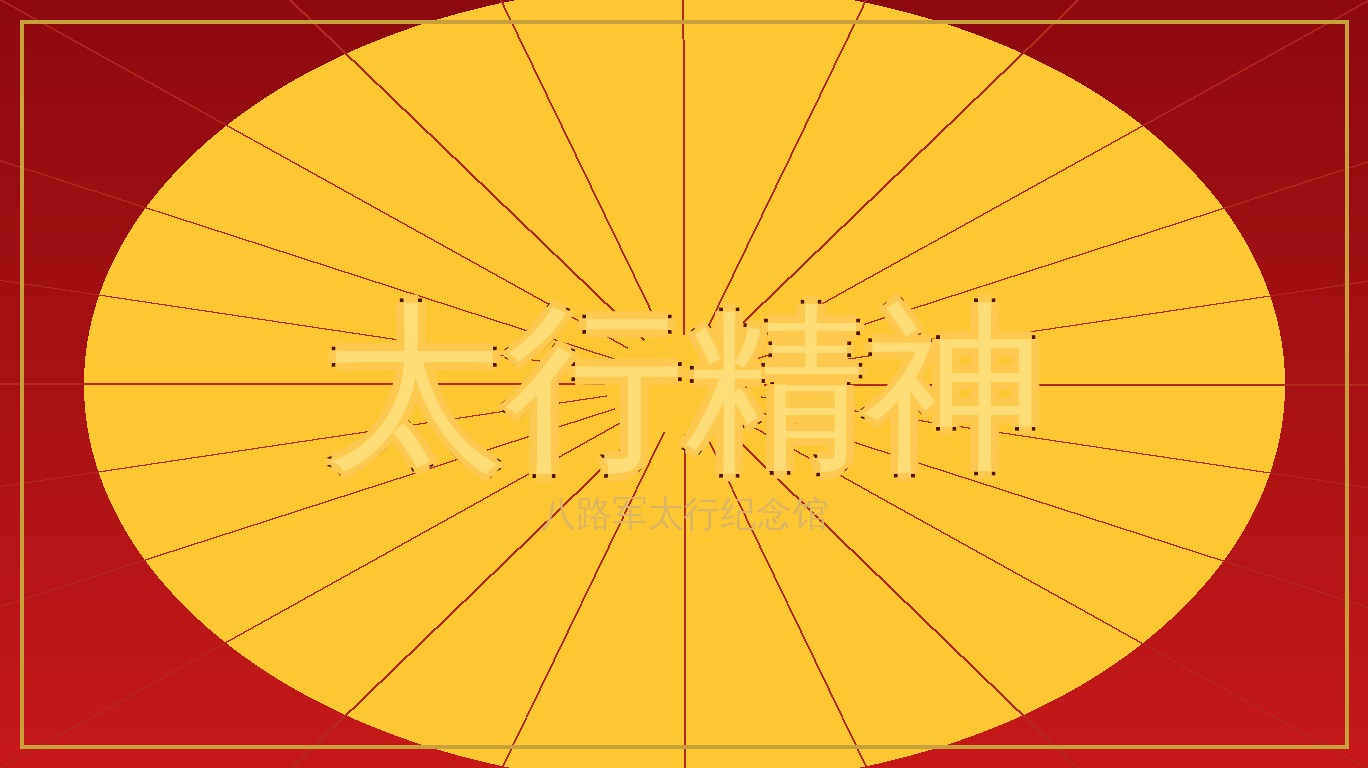
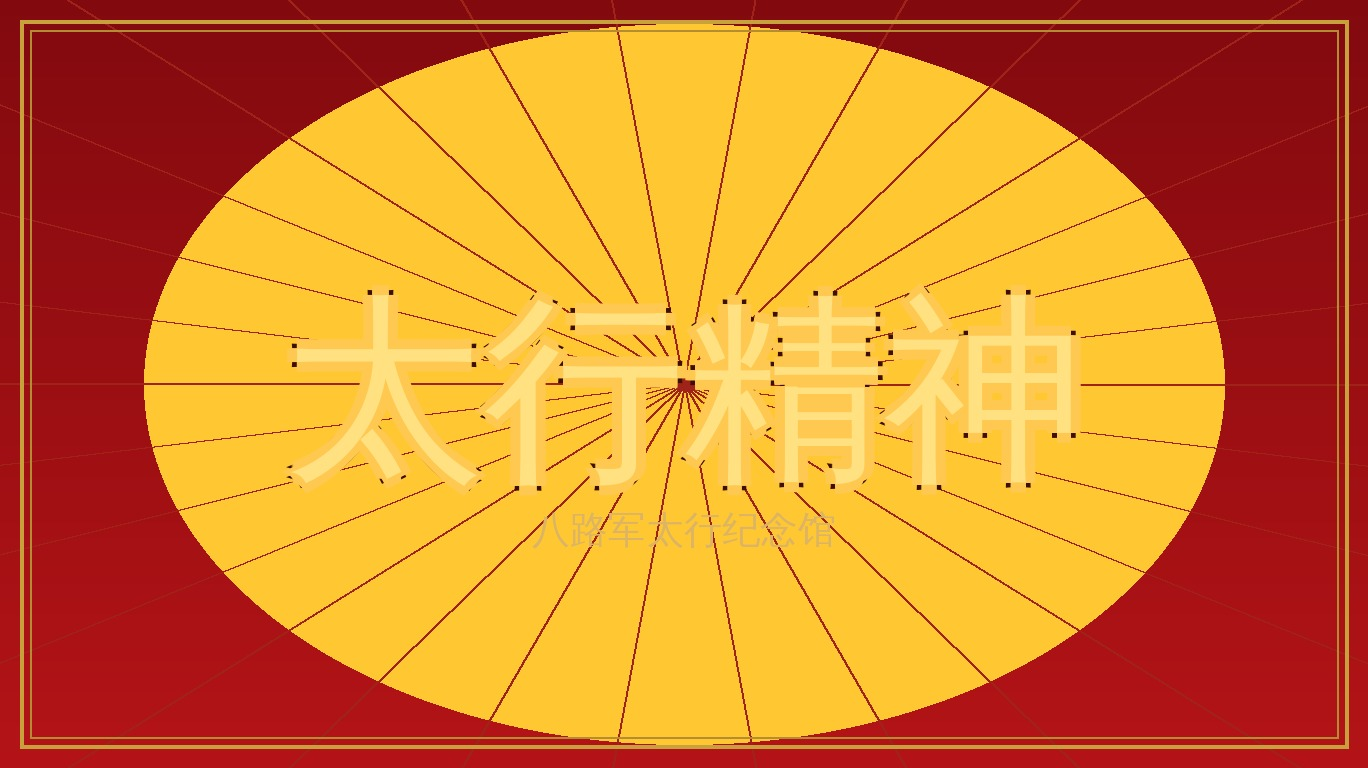
fix: remove 2 taihang spirit panels with text errors, rebalance wall layout

diff --git a/scene-memorial.html b/scene-memorial.html
@@ -1720,20 +1720,18 @@ function createPhotoGalleryWall(wallZ) {
 
     const textureLoader = new THREE.TextureLoader();
 
-    // 12张展板配置：[图片路径, 宽度, 高度, x位置, y位置]
+    // 10张展板配置：[图片路径, 宽度, 高度, x位置, y位置]
     const photos = [
-        {url: 'images/panels/panel_taihang.jpg', w: 1.45, h: 0.9, x: -2.55, y: 2.55},
-        {url: 'images/panels/panel_meeting.jpg', w: 1.05, h: 0.7, x: -0.55, y: 2.95},
-        {url: 'images/panels/panel_baituan.jpg', w: 1.25, h: 0.8, x: 1.05, y: 2.35},
-        {url: 'images/panels/panel_map.jpg', w: 0.9, h: 0.6, x: 2.65, y: 2.75},
-        {url: 'images/panels/panel_huangya.jpg', w: 1.15, h: 0.72, x: -2.05, y: 1.4},
-        {url: 'images/panels/panel_party.jpg', w: 0.95, h: 0.6, x: 0.15, y: 1.5},
-        {url: 'images/panels/panel_changle.jpg', w: 0.9, h: 0.6, x: 1.65, y: 1.4},
-        {url: 'images/panels/panel_spirit.jpg', w: 1.05, h: 0.65, x: 2.85, y: 1.5},
-        {url: 'images/panels/panel_pingxing.jpg', w: 1.0, h: 0.65, x: -2.9, y: 0.55},
-        {url: 'images/panels/panel_zuoquan.jpg', w: 0.85, h: 0.55, x: -1.15, y: 0.6},
-        {url: 'images/panels/panel_guerrilla.jpg', w: 0.9, h: 0.6, x: 0.45, y: 0.55},
-        {url: 'images/panels/panel_support.jpg', w: 1.0, h: 0.65, x: 1.95, y: 0.6},
+        {url: 'images/panels/panel_meeting.jpg', w: 1.05, h: 0.7, x: -2.55, y: 2.95},
+        {url: 'images/panels/panel_baituan.jpg', w: 1.25, h: 0.8, x: -0.55, y: 2.55},
+        {url: 'images/panels/panel_map.jpg', w: 0.9, h: 0.6, x: 1.15, y: 2.75},
+        {url: 'images/panels/panel_huangya.jpg', w: 1.15, h: 0.72, x: 2.45, y: 2.35},
+        {url: 'images/panels/panel_party.jpg', w: 0.95, h: 0.6, x: -2.05, y: 1.4},
+        {url: 'images/panels/panel_changle.jpg', w: 0.9, h: 0.6, x: -0.15, y: 1.5},
+        {url: 'images/panels/panel_pingxing.jpg', w: 1.0, h: 0.65, x: 1.55, y: 1.4},
+        {url: 'images/panels/panel_zuoquan.jpg', w: 0.85, h: 0.55, x: -2.9, y: 0.55},
+        {url: 'images/panels/panel_guerrilla.jpg', w: 0.9, h: 0.6, x: -1.15, y: 0.6},
+        {url: 'images/panels/panel_support.jpg', w: 1.0, h: 0.65, x: 0.45, y: 0.55},
     ];
 
     photos.forEach((photo) => {